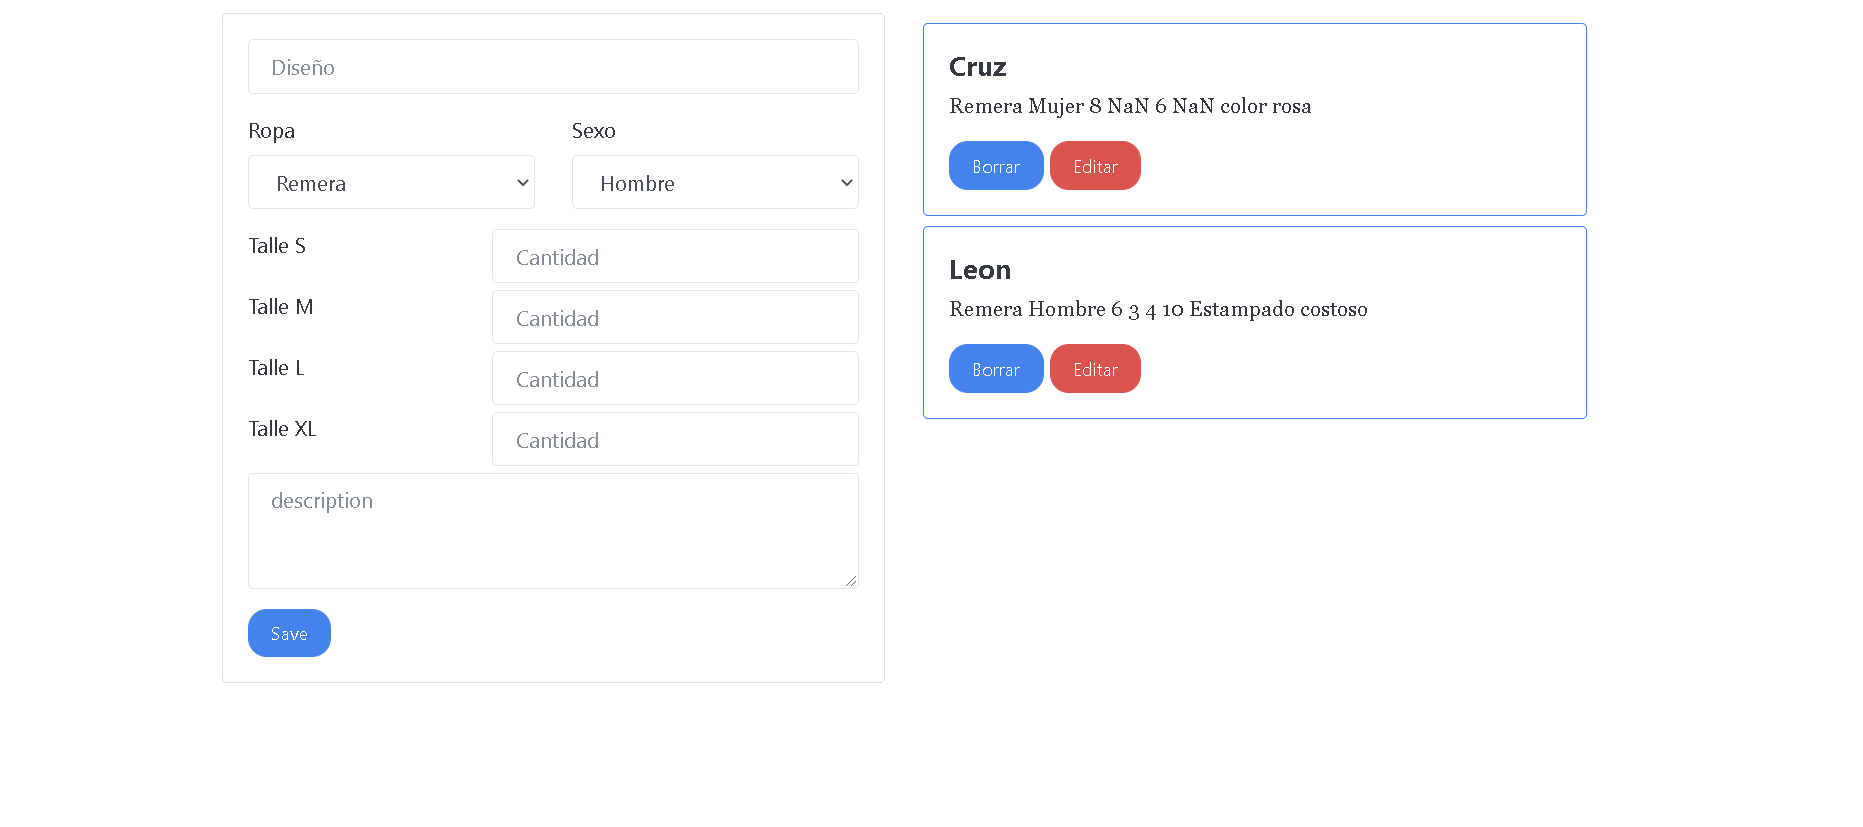
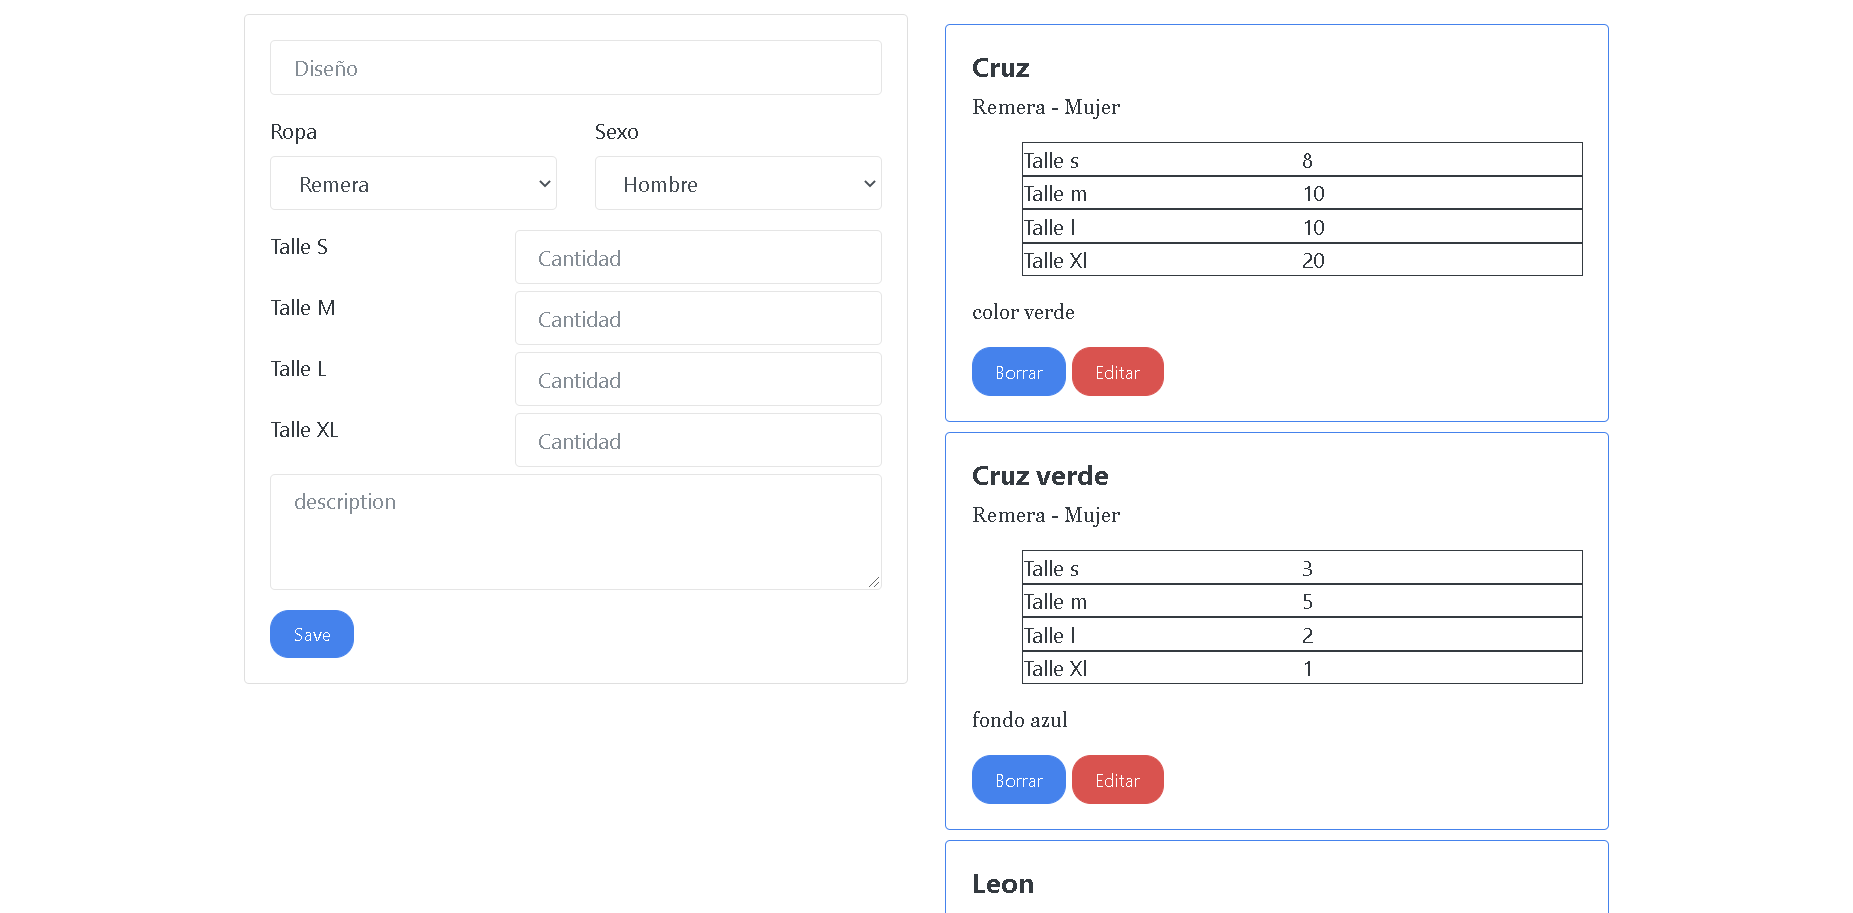
1.1 Funcion modificar
Se agrego la funcionalidad de modificar un item del stock.
Queda arreglar la vista movil

diff --git a/index.js b/index.js
@@ -3,6 +3,9 @@ const db = firebase.firestore();
 const taskform = document.getElementById("task-form");
 const taskContainer = document.getElementById("task-container");
 
+let editStatus = false;
+let id = '';
+
 const saveTask = (title,sexo,prendas,talle_s,talle_m,talle_l,talle_xl,description) =>
 db.collection("Productos").doc().set({
         title,
@@ -14,10 +17,21 @@ db.collection("Productos").doc().set({
         talle_xl:  parseInt(talle_xl,10),
         description
     });
-const getTask = () => db.collection('Productos').get();
-const onGetTasks = (callback) => db.collection('Productos').onSnapshot(callback);
+const getTask = () => 
+    db.collection('Productos').get();
 
-const deleteTask = id => db.collection('Productos').doc(id).delete();
+const getProducto = (id) => 
+    db.collection('Productos').doc(id).get();
+
+const onGetTasks = (callback) => 
+    db.collection('Productos').onSnapshot(callback);
+
+const deleteTask = id => 
+    db.collection('Productos').doc(id).delete();
+
+const updateTask = (id, updateTask) =>
+    db.collection('Productos').doc(id).update(updateTask);
+
 
 window.addEventListener('DOMContentLoaded', async (e) =>{
     onGetTasks((querySnapshot) => {
@@ -29,10 +43,53 @@ window.addEventListener('DOMContentLoaded', async (e) =>{
 
         taskContainer.innerHTML += `<div class="card card-body mt-2 border-primary">
             <h3 class="h5">${producto.title}</h3>
-            <p>${producto.prendas} ${producto.sexo} ${producto.talle_s} ${producto.talle_m} ${producto.talle_l} ${producto.talle_xl} ${producto.description}</p>
+            <p>${producto.prendas}  -  ${producto.sexo}</p>
+            <ul>
+                <li>
+                    <div class="row stock">
+                        <div class="col-md-6">
+                            Talle s
+                        </div>
+                        <div class="col-md-6">
+                            ${producto.talle_s}
+                        </div>
+                    </div>
+                </li>
+                <li>
+                <div class="row stock">
+                    <div class="col-md-6">
+                        Talle m
+                    </div>
+                    <div class="col-md-6">
+                        ${producto.talle_m}
+                    </div>
+                    </div>
+                </li>
+                <li>
+                <div class="row stock">
+                <div class="col-md-6">
+                    Talle l
+                    </div>
+                        <div class="col-md-6">
+                            ${producto.talle_l}
+                        </div>
+                    </div>
+                </li>
+                <li>
+                <div class="row stock">
+                <div class="col-md-6">
+                    Talle Xl
+                    </div>
+                        <div class="col-md-6">
+                            ${producto.talle_xl}
+                        </div>
+                    </div>
+                </li>
+            </ul>
+            <p>${producto.description}</p>
             <div>
                 <button class="btn btn-primary btn-borrar" data-id="${producto.id}">Borrar</button>
-                <button class="btn btn-danger btn-borrar">Editar</button>
+                <button class="btn btn-danger btn-editar" data-id="${producto.id}">Editar</button>
             </div>
             </div>`
 
@@ -40,6 +97,29 @@ window.addEventListener('DOMContentLoaded', async (e) =>{
             btns_borrar.forEach(btn => {
                 btn.addEventListener('click', async (e) =>{
                     await deleteTask(e.target.dataset.id);
+                    
+                });
+            });
+
+            const btnEditar = document.querySelectorAll('.btn-editar');
+            btnEditar.forEach(btn => {
+                btn.addEventListener('click', async (e) =>{
+                    const doc = await getProducto(e.target.dataset.id);
+                    const task = doc.data();
+
+                    editStatus = true;
+                    id = doc.id;
+
+                    taskform['task-title'].value = task.title;
+                    taskform['prendas'].value = task.prendas;
+                    taskform['sexo'].value = task.sexo;
+                    taskform['talleS'].value = task.talle_s;
+                    taskform['talleM'].value = task.talle_m;
+                    taskform['talleL'].value = task.talle_l;
+                    taskform['talleXl'].value = task.talle_xl;
+                    taskform['description'].value = task.description;
+
+                    taskform['btn-task-form'].innerHTML= 'Update';
                 });
             });
         });
@@ -58,7 +138,25 @@ taskform.addEventListener("submit", async (e) => {
     const talle_xl = taskform["talleXl"];
     const description = taskform["description"];
 
-    await saveTask(title.value,sexo.value,prendas.value,talle_s.value,talle_m.value,talle_l.value,talle_xl.value,description.value);
+    if(!editStatus)
+    {
+         await saveTask(title.value,sexo.value,prendas.value,talle_s.value,talle_m.value,talle_l.value,talle_xl.value,description.value);
+    }else{
+        await updateTask(id, {
+            title:title.value,
+            prendas:prendas.value,
+            talle_s: talle_s.value,
+            talle_m: talle_m.value,
+            talle_l: talle_l.value,
+            talle_xl: talle_xl.value,
+            description: description.value
+
+        });
+
+        editStatus = false;
+        id = ''; 
+        taskform['btn-task-form'].innerText = 'Save';
+    }
 
 
     taskform.reset();

diff --git a/index.html b/index.html
@@ -75,7 +75,7 @@
         </div>
     </div>
     
-
+<p></p>
 
 
 <!-- The core Firebase JS SDK is always required and must be listed first -->
@@ -88,7 +88,8 @@
   // Your web app's Firebase configuration
   // Your credentials
 
-  // Initialize Firebase
+  
+ // Initialize Firebase
   firebase.initializeApp(firebaseConfig);
 </script>
     <script src="index.js"></script>

diff --git a/estilos.css b/estilos.css
@@ -3,7 +3,19 @@
 }
 .cantidad input{
     float: right;
-    width: 60%;
-
+    width: 60%;   
+}
+li{
+    text-decoration: none;
+    list-style: none;
+    border: solid 1px;
+}
+ul{
+    text-decoration: none;
+    list-style: none;
+    
+}
+.stock{
+    width: 100%;
     
 }
